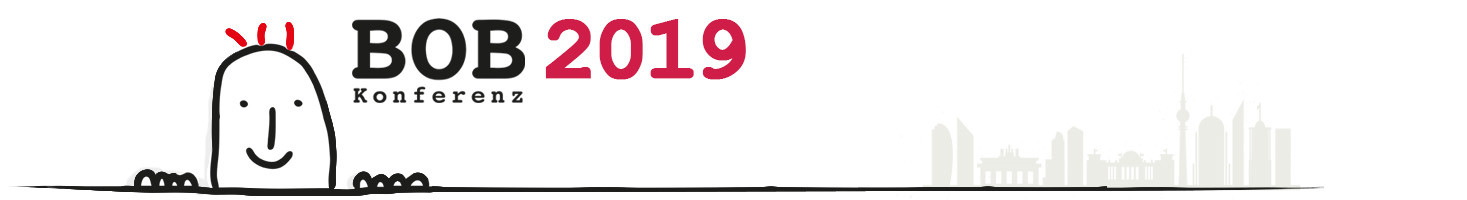
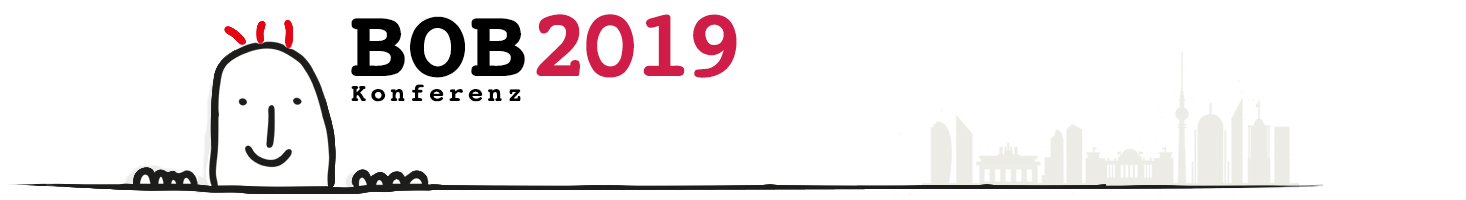
Fix image quality and font in header, adjust program styling

diff --git a/css/main.css b/css/main.css
@@ -610,6 +610,10 @@ h1, h2, h3, h4, h5, h6 {
     background-color: #f1f1e5;
 }
 
+.program table .bcolor5 h4 {
+    color: #67675c;
+}
+
 .program table h4 {
     text-transform: uppercase;
     color: #111;
